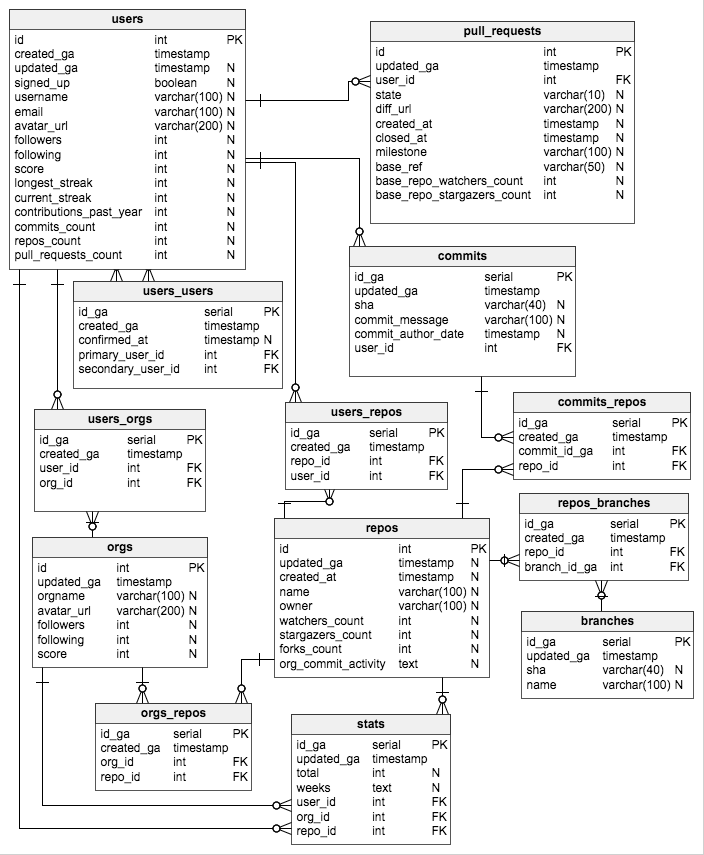
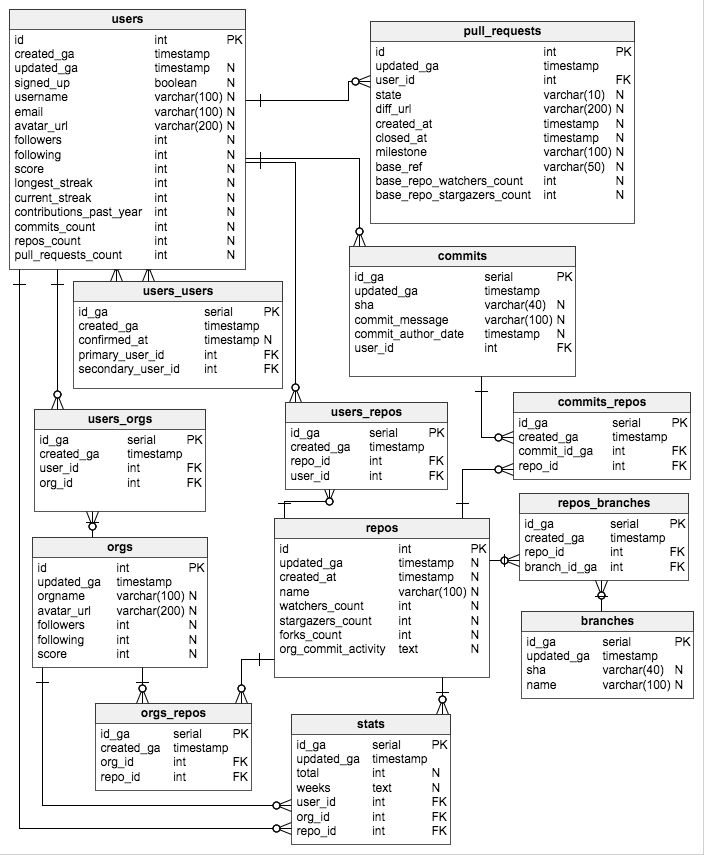
(fix) Modify schema - remove 'owner' column from repos table
Move ownerController functions back to userController

Changed region(s): [[0.375, 0.6994, 0.6562, 0.7906]]

diff --git a/server/controllers/statController.js b/server/controllers/statController.js
@@ -3,24 +3,25 @@ const db = require('../db/database.js').db;
 const pgp = require('../db/database.js').pgp;
 const token = require('../config/github.config').token;
 
-// GET at '/api/v1/owner/:id/stats'
+// GET at '/api/v1/user/:id/stats'
 exports.retrieveStats = function(req, res) {
   var queryId = req.params.id;
   
 };
 
-// POST at '/api/v1/owner/:id/stats'
+// POST at '/api/v1/user/:id/stats'
 exports.addStats = function(req, res) {
   var queryId = req.params.id;
 };
 
-// PATCH at '/api/v1/owner/:id/stats' to update stats 
+// PATCH at '/api/v1/user/:id/stats' to update stats 
+
 exports.updateStats = function(req, res) {
   var queryId = req.params.id;
   
   // ** HELPER FUNCTIONS **
   
-  //  get the stats for a given owner & repo from GitHub
+  //  get the stats for a given user from GitHub
   var getStatsFromGitHub = function(owner, repo, callback) {
     var options = {
       url: 'https://api.github.com/repos/' + owner.name + '/' + repo.name + '/stats/contributors',
@@ -51,13 +52,7 @@ exports.updateStats = function(req, res) {
     if (statsArray.length !== undefined) {
       var dbTimestamp = pgp.as.date(new Date());
       db.tx(function(t) {
-        
-        var deleteJoinsQuery = t.any(
-          'DELETE from $1~' +
-          'WHERE $2~=$3 ' +
-          'OR $4~=$3',
-          ['owners_stats', 'user_id', owner.id, 'org_id']);
-      
+              
         var deleteStatsQuery = t.any(
           'DELETE from $1~' +
           'WHERE $2~=$3',
@@ -126,54 +121,26 @@ exports.updateStats = function(req, res) {
     
   // CALL HELPER FUNCTIONS
     
-  // get the owner name (either username or orgname) from the database by id
-  db.tx(function(t) {
-    var userQuery = t.oneOrNone(
-      'SELECT * FROM $1~ ' +
-      'WHERE $2~=$3',
-      ['users', 'id', queryId]);
-    var orgQuery = t.oneOrNone(
-      'SELECT * FROM $1~ ' +
-      'WHERE $2~=$3',
-      ['orgs', 'id', queryId]);
-    return t.batch([userQuery, orgQuery]);
-  })
-  .then(data => {
-    var owner = {};
-    if (data[0] !== null) {
-      owner.name = data[0].username;
-      owner.id = data[0].id;
-      owner.type = 'user';
-    } else {
-      owner.name = data[1].orgname;
-      owner.id = data[1].id;
-      owner.type = 'org';
-    }
-    // get the repos from our db for the owner
-    db.any(
-      'SELECT * FROM $1~ ' +
-      'WHERE $1~.$2~=$3',
-      ['repos', 'owner', owner.name])
-      .then(repos => {
-        // for each repo:
-          // make a GET request to GitHub at /repos/:owner/:repo/stats/contributors
-          // delete existing stats and joins for the repo from our database
-          // add stats and joins for the repo to our database
-        repos.forEach((repo, index) => {
-          getStatsFromGitHub(owner, repo, updateStatsInDb);
-        });
-      })
-      .then(data => {
-        res.send('success');
-      })
-      .catch(error => {
-        console.error('Error selecting repos: ', error);
-        // res.status(500).send('Error selecting repos');
+  db.any(
+    'SELECT * FROM $1~ ' +
+    'WHERE $1~.$2~=$3',
+    ['repos', 'owner', owner.name])
+    .then(repos => {
+      // for each repo:
+        // make a GET request to GitHub at /repos/:owner/:repo/stats/contributors
+        // delete existing stats and joins for the repo from our database
+        // add stats and joins for the repo to our database
+      repos.forEach((repo, index) => {
+        getStatsFromGitHub(owner, repo, updateStatsInDb);
       });
-  })
-  .catch(error => {
-    console.error('Error selecting owner: ', error);
-    // res.status(500).send('Error selecting owner');
-  });
+    })
+    .then(data => {
+      res.send('success');
+    })
+    .catch(error => {
+      console.error('Error selecting repos: ', error);
+      // res.status(500).send('Error selecting repos');
+    });
+
 
 };

diff --git a/server/controllers/repoController.js b/server/controllers/repoController.js
@@ -16,13 +16,13 @@ exports.retrieveRepos = function(req, res) {
     db.tx(function (task) {
       var queries = repos.map(function (repo) {
         // this is an 'upsert' - it will insert a record if it does not exist, or update it if it exists
-        return task.any('INSERT INTO $1~ AS $16~ ($2~, $3~, $4~, $5~, $6~, $7~, $8~, $17~) ' +
+        return task.any('INSERT INTO $1~ AS $16~ ($2~, $3~, $4~, $5~, $6~, $7~, $8~) ' +
           'VALUES ($9, $10, $11, $12, $13, $14, $15, $18) ' +
           'ON CONFLICT ($2~) ' + 
-          'DO UPDATE SET ($3~, $4~, $5~, $6~, $7~, $8~, $17~) = ($10, $11, $12, $13, $14, $15, $18) ' +
+          'DO UPDATE SET ($3~, $4~, $5~, $6~, $7~, $8~, $17~) = ($10, $11, $12, $13, $14, $15) ' +
           'WHERE $16~.$2~ = $9',
           ['repos', 'id', 'updated_ga', 'created_at', 'watchers_count', 'stargazers_count', 'forks_count', 'name',
-          repo.id, dbTimestamp, repo.created_at, repo.watchers_count, repo.stargazers_count, repo.forks_count, repo.name, 'r', 'owner', repo.owner.login]);
+          repo.id, dbTimestamp, repo.created_at, repo.watchers_count, repo.stargazers_count, repo.forks_count, repo.name, 'r']);
       });
       return task.batch(queries);
     })
@@ -63,7 +63,7 @@ exports.retrieveRepos = function(req, res) {
   
   // sends the response for this API endpoint, containing all this user's repos
   var patchReposResponse = function () {
-    db.any(('SELECT r.id, r.updated_ga, r.created_at, r.watchers_count, r.stargazers_count, r.forks_count, owner ' + 
+    db.any(('SELECT r.id, r.updated_ga, r.created_at, r.watchers_count, r.stargazers_count, r.forks_count ' + 
       'FROM users_repos ur ' +
       'INNER JOIN repos r ' + 
       'ON r.id = ur.repo_id ' + 

diff --git a/server/routers/userRouter.js b/server/routers/userRouter.js
@@ -2,6 +2,7 @@ const userRouter = require('express').Router();
 const userController = require('./../controllers/userController.js');
 const repoController = require('./../controllers/repoController.js');
 const friendController = require('./../controllers/friendController.js');
+const statController = require('./../controllers/statController.js');
 
 // the following routes start from /api/v1/users
 
@@ -22,6 +23,11 @@ userRouter.route('/:id/friends')
   .get(friendController.retrieveFriends)
   .post(friendController.addFriend)
   .patch(friendController.confirmOrRemoveFriend);
+
+userRouter.route('/:id/stats')
+  // .get(statController.retrieveStats)
+  // .post(statController.addStats)
+  .patch(statController.updateStats);
 
 // userRouter.route('/:id/achievements')
 //   .get(userController.retrieveAchievements)

diff --git a/server/server.js b/server/server.js
@@ -15,14 +15,10 @@ require('./helpers/userGHFetcher')(app);
 // Routers
 const userRouter = require('./routers/userRouter.js');
 const orgRouter = require('./routers/orgRouter.js');
-const ownerRouter = require('./routers/ownerRouter.js');
-
 
 // Use routers for specific paths
 app.use('/api/v1/users', userRouter); 
 app.use('/api/v1/orgs', orgRouter);
-app.use('/api/v1/owner', ownerRouter);
-
 
 app.use('/static', express.static(__dirname + '/../client'));
 
